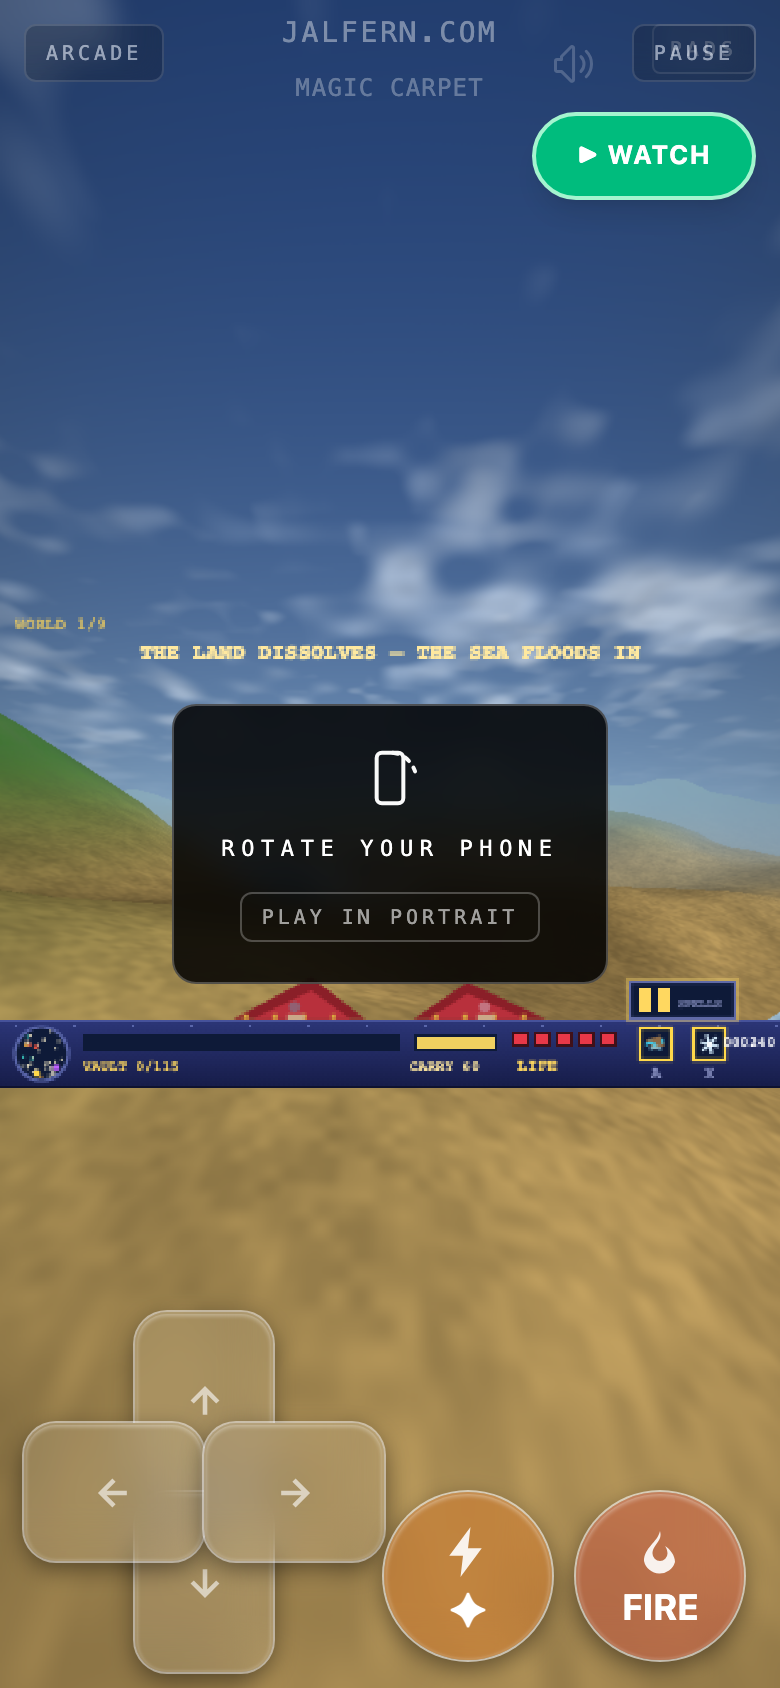
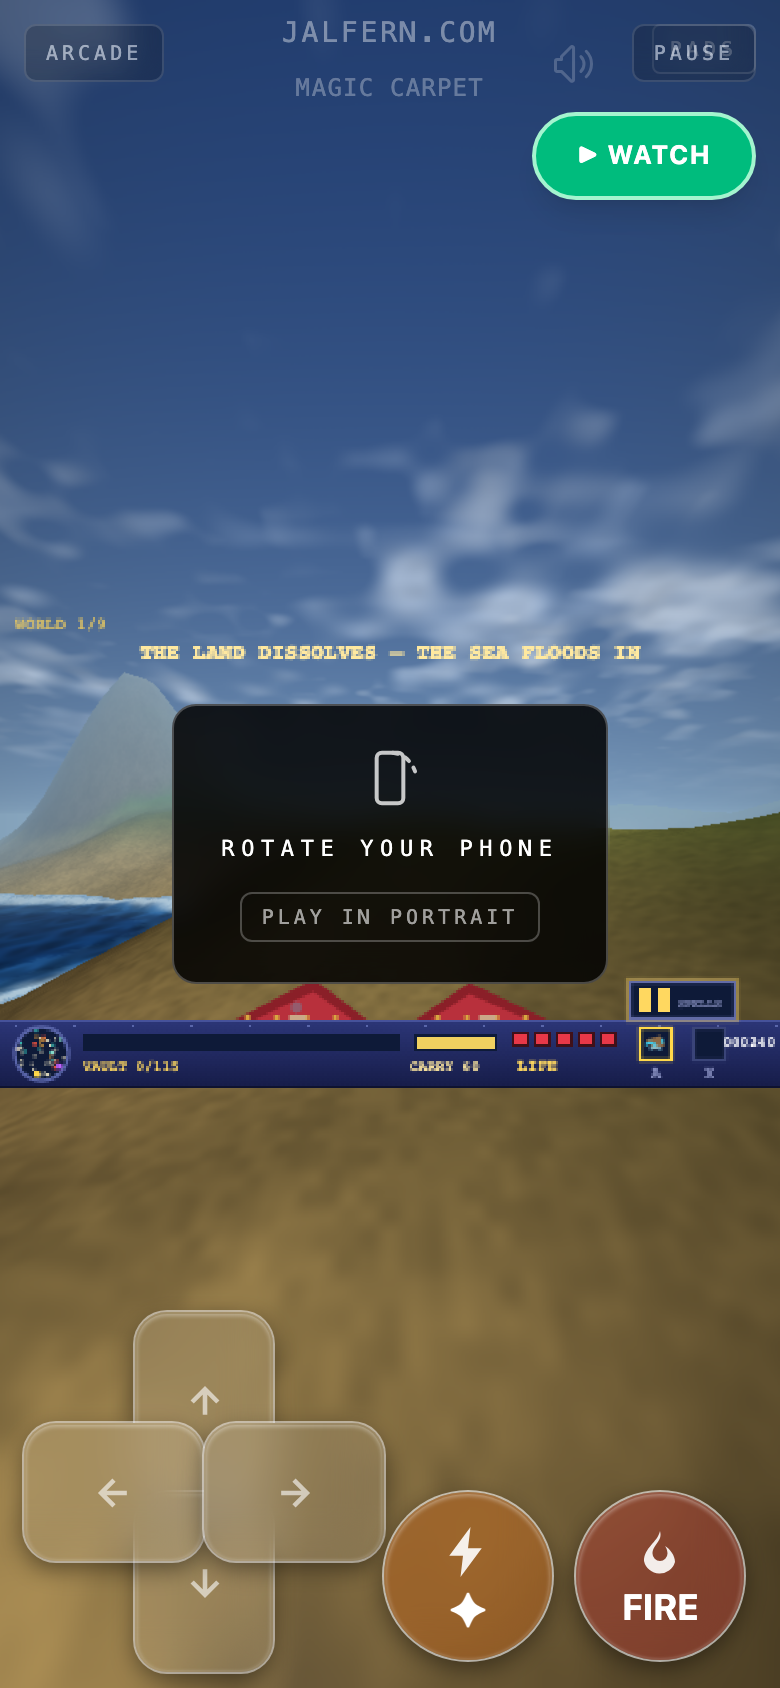
QA #1764 item 3 stage 2: MAGIC CARPET — the village economy (convert or burn, the original's signature loop) (#1834)
* QA (mini): WIP checkpoint at the 75-minute hard cap

* QA #1764 item 3 stage 2: shell — CARRY-pouch prisoner chip, grip/ally in state, villageEconomy browser probes, README

diff --git a/src/games/MagicCarpet/sim.js b/src/games/MagicCarpet/sim.js
@@ -84,6 +84,26 @@ export const VIL_WANDER_R = 18
 const VIL_SPEED = 0.35
 const VIL_FLEE = 0.9
 
+// #1764 item 3, stage 2 — the village economy: convert or burn. The carpet
+// snags a villager BY TOUCH in the low band (within VIL_GRAB_R and at most
+// VIL_GRAB_ALT above the ground — the same band wolves bite from, so a
+// prisoner is a raid into the lanes, not a pickup from the ceiling). One
+// grip: gs.prisoner leaves the lane (spliced from gs.villagers) and rides
+// the carpet. Deliver inside the castle's reach (the bank-by-delivery rule)
+// and the home hut becomes ALLY — pennant on the radar, and it pays tribute:
+// a 2-man pearl drops at the hut every VIL_TRIBUTE_T ticks. A hut that burns
+// to rubble scatters its savings (VIL_LOOT_MIN..MAX man over 2–3 pearls, the
+// dropPearls split) — the fast path, with the lane and the tribute dead.
+// Dissolve stays cold (#1668: a drowned hut pays nothing). Death drops the
+// prisoner where the carpet fell. rng only through the shared stream;
+// stateHash gains the grip and the ally flags.
+export const VIL_GRAB_R = 8
+export const VIL_GRAB_ALT = 12
+export const VIL_TRIBUTE_T = 720
+export const VIL_TRIBUTE_M = 2
+const VIL_LOOT_MIN = 4
+const VIL_LOOT_MAX = 8
+
 // Invisibility (#1610): the original's veil — while it holds, the enemies are
 // blind to the carpet. Duration in WORLD ticks so it is deterministic.
 export const INVIS_T = 420
@@ -421,6 +441,7 @@ export function makeGame(seed, level = 0) {
         craters: [], deforms: [], towerDown: false,
         learned: ['fireball'], hands: { L: 'fireball', R: null },
         coolL: 0, coolR: 0, heldEnt: null, holdT: 0,
+        prisoner: null, // #1764 item 3 stage 2: the carried villager (one grip)
         wizSlow: 0, wizFire: 40, spawnCool: 360, guardFire: 45, safeT: 0,
         wizStage: 0, worldT: 0, wizGuardFire: 0,
         invis: 0, book: false, spellBook: false, bookPage: 0,
@@ -506,17 +527,18 @@ export function genWorld(gs) {
     gs.huts = []
     for (let i = 0; i < 7; i++) {
         const c = findSpot(gs, 26, 46, false, null, 0)
-        gs.huts.push({ x: c.x, y: c.y, v: Math.floor(rnd(gs) * 3), burn: 0, dead: false, catchT: 0 })
+        gs.huts.push({ x: c.x, y: c.y, v: Math.floor(rnd(gs) * 3), burn: 0, dead: false, catchT: 0, ally: false, tributeT: 0 })
     }
     // #1764 item 3 — the village, spawned LAST: the huts are the homes.
     gs.villagers = []
-    gs.huts.forEach((hs) => {
+    gs.huts.forEach((hs, hi) => {
         const n = 2 + Math.floor(rnd(gs) * 2) // 2–3 per hut: a village, not a camp
         for (let i = 0; i < n; i++) {
             const a = rnd(gs) * 6.28, d = 2 + rnd(gs) * 8
             gs.villagers.push({
                 x: wrap(hs.x + Math.cos(a) * d, MAP), y: wrap(hs.y + Math.sin(a) * d, MAP),
                 hx: hs.x, hy: hs.y,            // home: the hut's site (a fallen hut keeps its lane)
+                hut: hi,                       // home hut index (stage 2: the convert anchor)
                 v: Math.floor(rnd(gs) * 3),    // tunic variant (atlas tile)
                 dir: rnd(gs) * 6.28,
                 wanderT: Math.floor(rnd(gs) * 70),
@@ -530,6 +552,7 @@ export function genWorld(gs) {
     gs.towerDown = false
     gs.invis = 0
     gs.book = false
+    gs.prisoner = null // #1764 item 3 stage 2: a new world is an empty grip
     gs.spellBook = false; gs.bookPage = 0 // #1764: a new world is a closed book at a new castle
     return gs
 }
@@ -599,6 +622,19 @@ function hurtPlayer(gs, dmg) {
         const lost = Math.floor(gs.mana)
         if (lost > 0) { gs.spilled += lost; gs.events.push({ type: 'spill', m: lost }) }
         gs.mana = 0
+        // #1764 item 3 stage 2: the grip is never a coffin — the prisoner
+        // drops where the carpet fell (BEFORE the respawn teleport rewrites
+        // gs.x/y) and scrambles back toward the lane, panicked.
+        if (gs.prisoner) {
+            gs.villagers.push({
+                x: wrap(gs.x, MAP), y: wrap(gs.y, MAP),
+                hx: gs.prisoner.hx, hy: gs.prisoner.hy,
+                hut: gs.prisoner.hut, v: gs.prisoner.v,
+                dir: rnd(gs) * 6.28, wanderT: 0, panicT: 90,
+            })
+            gs.prisoner = null
+            gs.events.push({ type: 'villager', what: 'release', x: gs.x, y: gs.y })
+        }
         if (gs.bank > 0) {
             gs.deaths++
             gs.x = gs.castle.x; gs.y = gs.castle.y; gs.alt = 52; gs.hp = 100; gs.shield = 150
@@ -1005,6 +1041,24 @@ export function step(gs, inp) {
         }
     }
 
+    // #1764 item 3 stage 2 — the catch band. Low is where the wolves bite,
+    // and it is where the carpet takes a prisoner: touch a villager within
+    // VIL_GRAB_R while within VIL_GRAB_ALT of the ground under their lane.
+    // One grip — the body leaves gs.villagers and rides the carpet; a full
+    // grip snags nothing (silently, like a full pearl magnet never fires).
+    if (!gs.prisoner) {
+        for (let i = gs.villagers.length - 1; i >= 0; i--) {
+            const vl = gs.villagers[i]
+            const dg = Math.hypot(wrapD(gs.x - vl.x), wrapD(gs.y - vl.y))
+            if (dg < VIL_GRAB_R && gs.alt <= sampleH(gs, vl.x, vl.y) + VIL_GRAB_ALT) {
+                gs.villagers.splice(i, 1)
+                gs.prisoner = { v: vl.v, hut: vl.hut, hx: vl.hx, hy: vl.hy }
+                gs.events.push({ type: 'villager', what: 'grab', x: vl.x, y: vl.y })
+                break
+            }
+        }
+    }
+
     for (const b of gs.books) {
         if (b.cd > 0) b.cd--
         const bdx = wrapD(gs.x - b.x), bdy = wrapD(gs.y - b.y)
@@ -1036,6 +1090,20 @@ export function step(gs, inp) {
             gs.mana -= move
             gs.bank += move
             gs.events.push({ type: 'bankIn', m: move })
+        }
+        // #1764 item 3 stage 2 — deliver the prisoner home (the SAME reach as
+        // the bank): the home hut flies a pennant and starts its tribute
+        // clock; a hut already lost gives the settler a home only.
+        if (gs.prisoner) {
+            const hs = gs.huts[gs.prisoner.hut]
+            if (hs && !hs.dead) {
+                hs.ally = true
+                hs.tributeT = VIL_TRIBUTE_T
+                gs.events.push({ type: 'villager', what: 'convert', hut: gs.prisoner.hut, x: hs.x, y: hs.y })
+            } else {
+                gs.events.push({ type: 'villager', what: 'settle' })
+            }
+            gs.prisoner = null
         }
     }
     {
@@ -1190,14 +1258,31 @@ export function step(gs, inp) {
             hs.burn--
             if (hs.burn === 0 && !hs.dead) {
                 hs.dead = true
+                hs.ally = false // stage 2: a burned hut loses its pennant and its tribute
                 crater(gs, hs.x, hs.y, 6, 3, 0.35)
-                gs.events.push({ type: 'hutDown', x: hs.x, y: hs.y })
+                // stage 2: the ashes scatter the hut's savings — 4–8 man over
+                // the dropPearls split. Dissolve never reaches here: a drowned
+                // hut pays nothing (#1668's cold promise). `m` rides the event
+                // so the conservation gate can account the scatter.
+                const lootM = VIL_LOOT_MIN + Math.floor(rnd(gs) * (VIL_LOOT_MAX - VIL_LOOT_MIN + 1))
+                dropPearls(gs, hs.x, hs.y, lootM)
+                gs.events.push({ type: 'hutDown', x: hs.x, y: hs.y, loot: true, m: lootM })
             }
         } else if (!hs.dead && hs.catchT > 0) {
             hs.catchT--
             if (hs.catchT === 0) {
                 hs.burn = 200
                 gs.events.push({ type: 'ignite', x: hs.x, y: hs.y })
+            }
+        } else if (!hs.dead && hs.ally) {
+            // stage 2: the tribute — a converted hut pays a 2-man pearl at its
+            // door every VIL_TRIBUTE_T ticks. Pickup like any pearl.
+            hs.tributeT--
+            if (hs.tributeT === 0) {
+                hs.tributeT = VIL_TRIBUTE_T
+                const px = wrap(hs.x + 4, MAP), py = wrap(hs.y + 4, MAP)
+                gs.pearls.push({ x: px, y: py, z: Math.max(sampleH(gs, px, py), WATER) + 2, m: VIL_TRIBUTE_M, alive: true })
+                gs.events.push({ type: 'tribute', x: px, y: py, m: VIL_TRIBUTE_M })
             }
         }
     }
@@ -1443,6 +1528,8 @@ export function stateHash(gs) {
     mix(gs.monsters.length); mix(gs.projs.length); mix(gs.fireMarks.length)
     mix(gs.villagers.length) // #1764 item 3: the village is world state too
     for (const v of gs.villagers) { mix(v.x.toFixed(0)); mix(v.y.toFixed(0)) }
+    mix(gs.prisoner ? gs.prisoner.hut + '.' + gs.prisoner.v : '-') // stage 2: the grip is state
+    for (const hs of gs.huts) mix(hs.ally ? 1 : 0) // stage 2: the flags are state
     mix(gs.kills); mix(gs.wizardKills); mix(gs.deaths); mix(gs.levelClears)
     for (const p of gs.pearls) if (p.alive) { mix(p.x.toFixed(0)); mix(p.y.toFixed(0)) }
     return (h >>> 0).toString(16)

diff --git a/src/games/MagicCarpet/index.jsx b/src/games/MagicCarpet/index.jsx
@@ -218,9 +218,32 @@ const MagicCarpetGame = () => {
                     audioController.playSweep(300, 90, 0.3, 'triangle', 0.04)
                     audioController.playNoise(0.08, 0.03)
                     say('A VILLAGER HAS BURNED')
+                } else if (e.type === 'villager' && e.what === 'grab') {
+                    // #1764 stage 2 — a body on the carpet: a short muffled
+                    // snatch, and the CARRY strip wears the tunic.
+                    audioController.playSweep(200, 420, 0.08, 'triangle', 0.045)
+                    say('A VILLAGER IS IN YOUR GRIP')
+                } else if (e.type === 'villager' && e.what === 'convert') {
+                    // The village joins your flag: a bright pledge — the bank
+                    // chime's cousin, a fifth up.
+                    audioController.playTone(660, 0.05, 'sine', 0.05)
+                    audioController.playTone(880, 0.05, 'sine', 0.05, 0.06)
+                    audioController.playTone(1108, 0.09, 'sine', 0.05, 0.12)
+                    say('A VILLAGE JOINS YOUR FLAG')
+                } else if (e.type === 'villager' && e.what === 'settle') {
+                    audioController.playTone(520, 0.06, 'sine', 0.04)
+                    say('THE VILLAGER SETTLES AT THE CASTLE')
+                } else if (e.type === 'villager' && e.what === 'release') {
+                    audioController.playSweep(400, 140, 0.2, 'triangle', 0.04)
+                    say('YOUR PRISONER FALLS WITH YOU')
+                } else if (e.type === 'tribute') {
+                    // The converted hut pays its pearl: a soft coin at the hut
+                    // (the pickup chime sings when the pearl is actually taken).
+                    audioController.playTone(880, 0.04, 'sine', 0.03)
                 } else if (e.type === 'hutDown') {
                     audioController.playNoise(0.2, 0.08)
                     audioController.playTone(85, 0.12, 'square', 0.06)
+                    if (e.loot) audioController.playTone(980, 0.035, 'triangle', 0.035, 0.12) // stage 2: the savings scatter
                     shake = Math.max(shake, 3)
                 } else if (e.type === 'level') {
                     audioController.playTone(523, 0.12, 'square', 0.07)
@@ -633,7 +656,7 @@ const MagicCarpetGame = () => {
             for (const p of gs.pearls) if (p.alive) dot(p.x, p.y, '#e8e0c0')
             for (const m of gs.monsters) dot(m.x, m.y, m.kind === 'cow' ? '#d8d0c0' : '#e05040', 1.6)
             for (const b of gs.books) if (!b.taken) dot(b.x, b.y, '#40e0d0')
-            for (const hs of gs.huts) dot(hs.x, hs.y, hs.dead ? '#5a5262' : '#c89040', 1.2)
+            for (const hs of gs.huts) dot(hs.x, hs.y, hs.dead ? '#5a5262' : hs.ally ? '#ffd84a' : '#c89040', 1.2)
             for (const fm of gs.fireMarks) dot(fm.x, fm.y, '#ff5030', 1.6)
             dot(gs.castle.x, gs.castle.y, '#ffd84a', 2.4)
             if (gs.wizard.alive) dot(gs.wizard.x, gs.wizard.y, '#c060ff', 2.4)
@@ -663,6 +686,15 @@ const MagicCarpetGame = () => {
             ctx.fillRect(170, y0 + 6, 34, 7)
             ctx.fillStyle = '#f0d060'
             ctx.fillRect(171, y0 + 7, 32 * Math.min(1, gs.mana / 40), 5)
+            // #1764 stage 2 — the prisoner chip: while someone rides the
+            // carpet, their tunic (the same three as the lanes) wears the
+            // right of the carry bar — the load is a person, not just mana.
+            if (gs.prisoner) {
+                ctx.fillStyle = ['#8a4a3a', '#5a6a8a', '#6a7a4a'][gs.prisoner.v % 3]
+                ctx.fillRect(207, y0 + 7, 6, 5)
+                ctx.strokeStyle = '#ffe9a0'
+                ctx.strokeRect(206.5, y0 + 6.5, 7, 6)
+            }
             ctx.fillStyle = '#ffe9a0'
             ctx.fillText(`CARRY ${Math.floor(gs.mana)}`, 168, y0 + 21)
             ctx.fillStyle = 'rgba(232, 200, 96, 0.85)'
@@ -1167,6 +1199,8 @@ const MagicCarpetGame = () => {
                     x: +gs.x.toFixed(2), y: +gs.y.toFixed(2), alt: +gs.alt.toFixed(2), yaw: +gs.yaw.toFixed(4),
                     pearlsAlive: gs.pearls.filter((p) => p.alive).length,
                     villagers: gs.villagers.length,
+                    prisoner: gs.prisoner ? { hut: gs.prisoner.hut, v: gs.prisoner.v } : null, // #1764 stage 2
+                    allyHuts: gs.huts.filter((h) => h.ally && !h.dead).length, // #1764 stage 2
                     projs: gs.projs.length, keys: { ...keys }, boost: boostOn,
                     towerDown: gs.towerDown, craters: gs.craters.length,
                     wizStage: gs.wizStage, worldT: gs.worldT,
@@ -1185,6 +1219,28 @@ const MagicCarpetGame = () => {
                 hash: () => stateHash(gs),
                 gl2: () => !!renderer,
                 muffle: () => audioController.ambTarget,
+                // #1764 stage 2: the village economy in the LIVE world —
+                // 'grab' drops the carpet to the floor of the first lane and
+                // steps once (the shield so the wizard's bolt can't rewrite
+                // the gate); 'deliver' carries the grip to the castle. The
+                // probe fields (prisoner/allyHuts) read the same gs the paint
+                // path renders — state-based, holds on the degraded box.
+                villageEconomy: (mode) => {
+                    gs.shield = 1e9
+                    if (mode === 'grab') {
+                        const vl = gs.villagers[0]
+                        if (!vl) return { err: 'no villagers' }
+                        gs.x = vl.x; gs.y = vl.y; gs.yaw = 0; gs.alt = 0
+                        step(gs, {})
+                        return { prisoner: gs.prisoner ? { hut: gs.prisoner.hut, v: gs.prisoner.v } : null, villagers: gs.villagers.length }
+                    }
+                    if (mode === 'deliver') {
+                        gs.x = gs.castle.x; gs.y = gs.castle.y; gs.alt = 52
+                        step(gs, {})
+                        return { prisoner: gs.prisoner ? { hut: gs.prisoner.hut, v: gs.prisoner.v } : null, allyHuts: gs.huts.filter((h) => h.ally && !h.dead).length }
+                    }
+                    return { err: 'unknown mode' }
+                },
                 digHot: () => {
                     gs.quota = 999999
                     crater(gs, gs.x + Math.cos(gs.yaw) * 70, gs.y + Math.sin(gs.yaw) * 70, 16, 10, 1)

diff --git a/src/games/MagicCarpet/renderer.js b/src/games/MagicCarpet/renderer.js
@@ -710,6 +710,11 @@ void main(){
                 spawnBurst(gs, e.x, e.y, 6, [1.5, 0.55, 0.25])
                 spawn(e.x, heightAt(gs, e.x, e.y) + 2, e.y, 'smoke', (Math.random() - 0.5) * 0.4, 0.6, (Math.random() - 0.5) * 0.4, 2.2, 70, [0.6, 0.42, 0.34])
             }
+            // #1764 item 3 stage 2 — the village economy on screen: a convert
+            // throws gold pennant-dust up from the hut, a tribute a small
+            // bright coin-glint at its door.
+            else if (e.type === 'villager' && e.what === 'convert') spawnBurst(gs, e.x, e.y, 10, [1.5, 1.2, 0.5])
+            else if (e.type === 'tribute') spawnBurst(gs, e.x, e.y, 4, [1.6, 1.3, 0.6])
             else if (e.type === 'towerDown') { spawnBurst(gs, e.x, e.y, 14, [1.0, 0.45, 0.2]); addScorch(e.x, e.y, 12, 0.5) }
             // #1764: the growth reads as violet rune-dust off the rising works
             else if (e.type === 'wizGrow') spawnBurst(gs, e.x, e.y, 14, [0.85, 0.5, 1.5])
@@ -826,7 +831,12 @@ void main(){
         for (const hs of gs.huts || []) {
             if (hs.dead) pushSpr('rubble', hs.x, hs.y, gz(hs.x, hs.y) + 0.4, [1, 1, 1], 1)
             else if (hs.burn > 0) pushSpr('hutBurn', hs.x, hs.y, gz(hs.x, hs.y), [1, 1, 1], 1)
-            else pushSpr('hut', hs.x, hs.y, gz(hs.x, hs.y), [1, 1, 1], 1, false, -5 - hs.v)
+            else pushSpr('hut', hs.x, hs.y, gz(hs.x, hs.y), hs.ally ? [1.22, 1.08, 0.78] : [1, 1, 1], 1, false, -5 - hs.v)
+            // #1764 item 3 stage 2 — the pennant: a converted hut is yours;
+            // a gold mark bobs above the roof (the radar dot matches).
+            if (hs.ally && !hs.dead) {
+                pushSpr('dot', hs.x, hs.y, gz(hs.x, hs.y) + 11 + Math.sin(gs.tick * 0.1 + hs.x) * 0.5, [1.05, 0.88, 0.42], 0.9)
+            }
         }
         const cst = gs.castleStage
         if (cst > 0) {
@@ -875,6 +885,15 @@ void main(){
         if (gs.heldEnt) {
             pushSpr('throw', gs.x + Math.cos(gs.yaw) * 4, gs.y + Math.sin(gs.yaw) * 4, gs.alt + 1.5, [0.7, 1.2, 1.1], 1)
             pushSpr('dot', gs.x + Math.cos(gs.yaw) * 4, gs.y + Math.sin(gs.yaw) * 4, gs.alt + 1.5, [0.5, 1.5, 1.4], 0.6)
+        }
+        // #1764 item 3 stage 2 — the prisoner rides the carpet: clinging to
+        // the fore corner (the throw's seat, one corner over), swaying on the
+        // world clock so the carry reads as a body, not a decal.
+        if (gs.prisoner) {
+            const a = gs.yaw + 0.85
+            pushSpr(`villager${gs.prisoner.v}`,
+                gs.x + Math.cos(a) * 4.5, gs.y + Math.sin(a) * 4.5,
+                gs.alt - 1.2 + Math.sin(gs.tick * 0.15) * 0.25, [1, 1, 1], 1, Math.cos(a) < 0)
         }
         for (const it of sprItems) it.d = (it.x - tUniforms.uCamPos.value.x) ** 2 + (it.y - tUniforms.uCamPos.value.y) ** 2 + (it.z - tUniforms.uCamPos.value.z) ** 2
         sprItems.sort((a, b) => b.d - a.d)

diff --git a/src/games/MagicCarpet/README.md b/src/games/MagicCarpet/README.md
@@ -365,21 +365,30 @@ see item 5).
   an unverifiable #489-memory claim (no reachable sources; the #1680 lesson) —
   inventing multi-carry would triple a homing projectile's damage, so it is
   out of spec, not a gap.
-- **Village life PARTIAL by #1764 item 3 stage 1:** the huts are homes. Each
-  hut houses 2–3 villagers (three tunic variants, one atlas tile each) who keep
-  to their home lane — wander within 18u, stray past it and walk home. A
-  burning hut or a bolt/blast strike within 26u sends the lane fleeing the
-  point of fear (a panicked run tints warm and outlives the ring); a villager
-  caught within 7u of a burning hut burns where they stand — a `villager`
-  `burn` event, a burst + wisp where they stood, a low descending cry and the
-  world names it ("A VILLAGER HAS BURNED"). They are neutral for now: no mana,
-  no bounty, never hostile. Spawned LAST in `genWorld` (after the huts — the
-  last rng-consuming placement), so world placement is untouched and only the
-  play stream re-bases; `stateHash` carries the census. carpetcheck proves the
-  whole village Node-side (census, determinism, wander/flee/burn/scare/home-walk
-  + the mutation guide) and a state-based browser gate counts the lane live.
-  Still open: the convert/burn moral economy and prisoners carried to your
-  castle — the original's signature loop.
+- **Village life stage 2 by #1764 item 3:** the village economy — convert or
+  burn, the original's signature loop. The carpet snags a villager BY TOUCH in
+  the low band (`VIL_GRAB_R = 8`u and `alt ≤ ground + VIL_GRAB_ALT (12)` — the
+  same band wolves bite from: altitude is armor AND the price of a prisoner).
+  One grip (`gs.prisoner`, spliced from the lane) rides the carpet's fore
+  corner; deliver inside the castle's reach (the bank-by-delivery rule) and the
+  home hut becomes ALLY — gold pennant over the roof, gold radar dot, and it
+  pays **tribute**: a 2-man pearl at the hut every `VIL_TRIBUTE_T` (720)
+  ticks. A hut that burns to rubble scatters its savings (4–8 man over the
+  `dropPearls` split, `m` on the `hutDown` event); dissolve stays cold
+  (#1668: a drowned hut is spliced from the world and pays nothing). Death
+  drops the prisoner where the carpet fell (back to the lane, panicked).
+  `stateHash` carries the grip and the ally flags; rng only through the
+  shared stream; the autopilot needs no new rule (a grabbed prisoner rides
+  along and converts on the next bank — the 60-seed sweep re-ran green).
+  Interpretation note (#1680 discipline): the original's exact convert/burn
+  rewards are unverifiable here — the issue's spec line is what ships.
+  carpetcheck proves the whole economy Node-side (band grab / high-flight
+  never / grip full / convert / tribute-on-the-clock / burn-loot /
+  dissolve-cold / death-release / hash grip+pennant / replay pair + mutation
+  guide) and the live browser world grabs and converts through the
+  `villageEconomy` hook (state-based, degraded-box safe).
+  Still open: none — the loop is complete (items 1, 2 and 3 of the pass are
+  shipped; 4–7 remain on the issue).
 - No anaglyph/stereo mode. **Partially closed by #1746 item 7:** rival-cast
   cues now pan to the caster's side (see the #1746 section) — the world bed,
   creatures and lightning are still center, and there is no true HRTF.
